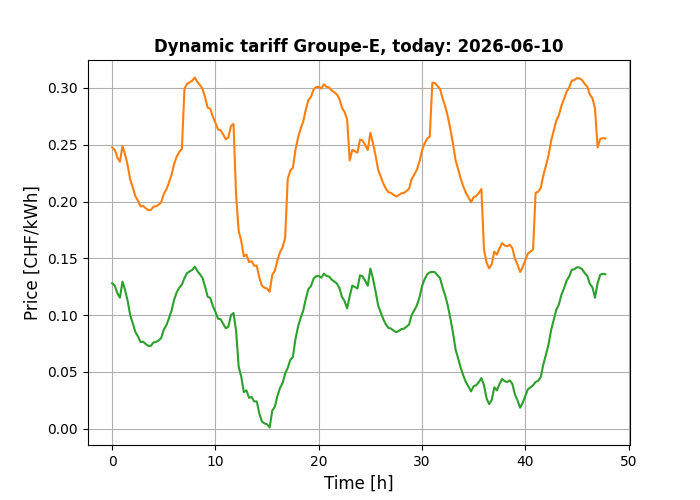
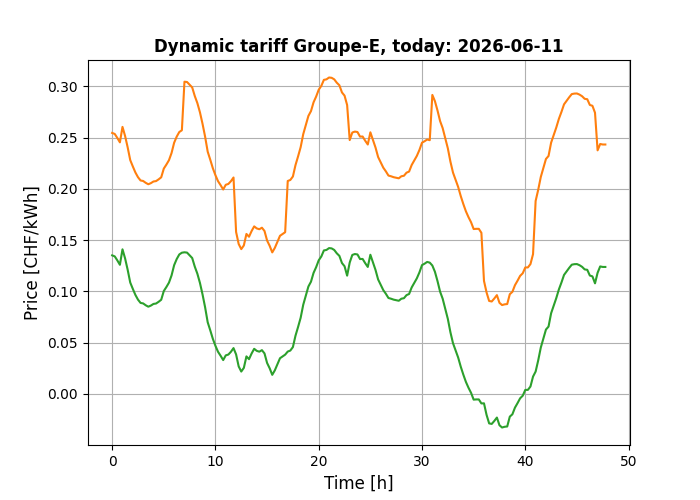
the double tariff is not available anymore in the API, replaced with the mean value for a kind of comparison

diff --git a/streamlit_dynamic_tarif_simulator.py b/streamlit_dynamic_tarif_simulator.py
@@ -3,6 +3,7 @@
 import streamlit as st
 import pandas as pd
 import plotly.express as px
+import plotly.graph_objects as go
 import matplotlib.pyplot as plt
 import datetime
 import random as rnd
@@ -56,7 +57,7 @@ with st.sidebar:
     st.markdown("---")
     st.write("🔋 Storage used for simulation")
     battery_size_kwh = st.slider("Battery capacity (kWh): ", min_value=1.0, max_value=20.0, value=10.0, step=1.0)
-    battery_charge_power_kw = st.slider("Battery max charge power (kW): ", min_value=1.0, max_value=20.0, value=10.0, step=1.0)
+    battery_charge_power_kw = st.slider("Battery max charge power (kW): ", min_value=1.0, max_value=20.0, value=5.0, step=1.0)
     st.write("C/2 would be a reasonable charge/discharge limit, note it is applied all day")
     soc_init = st.slider("Battery initial SOC (%): ", min_value=20.0, max_value=100.0, value=20.0, step=1.0)
 
@@ -71,7 +72,7 @@ with st.sidebar:
 
 st.write(""" Visualizing daily electricity prices and planning **storage** with **solar** power production and **consumption** usage
     - **Why?** Dynamic price will be a hot subject in the future with increasing solar production capacity distributed in the grid. There will be so much production in the afternoon that the way we consume must be adapted. Live with the sun... 
-    - **POC?** An proof of concept of what could be done with Studer next3 hybrid inverter (best and most flexible inverters in the world to control!). The idea is to quantify the possible gain of an control done with the dynamic price of the Swiss DSO Groupe-E (called Vario). This is available with an API and published everyday at 18h for the next day.
+    - **POC?** An proof of concept of what could be done with Studer next3 hybrid inverter (best and most flexible inverters in the world to control!). The idea is to quantify the possible gain of an control done with the dynamic price of the Swiss DSO Groupe-E (called Vario). This is available with an API and published everyday at 18h for the next day. Note that with the new version of the API v2, the standard tariff is not included anymore, but I replaced it with the mean price of the vario for approximation of a standard tariff.
     - **Info?** if you want to know more about [Vario](https://www.groupe-e.ch/fr/energie/electricite/clients-prives/vario)""")
 
 st.markdown("---")
@@ -96,9 +97,9 @@ now_string_timestamp = now.strftime("%Y-%m-%d %H:%M:%S")
 #API to the electricity price:
 df_price_varioplus = get_groupe_e_consumption_price_v2(now, number_of_days_in_past, next_day_wanted)
 
-#adaptation: with the new API the double tarif is not included anymore, I added it in the dataframe with NaN
+#adaptation for v2: with the new API the double tariff is not included anymore, I added it in the dataframe with NaN
 #let's replace it with the mean price of the vario for approximation, that is not bad:
-df_price_varioplus["Double Tarif"] = df_price_varioplus["Varioplus"].mean()
+df_price_varioplus["Double Tariff"] = df_price_varioplus["Varioplus"].mean()
 
 print("Timestamp: " + now_string_timestamp)
 #df_price_varioplus.head()
@@ -121,11 +122,47 @@ df_price_varioplus["DischargeCommand"] = (df_price_varioplus["Discharge"]  <= df
 
 
 #And plot it:
-fig_levels = px.line(df_price_varioplus, 
-                            x=df_price_varioplus.index, 
-                            y=["Varioplus", "Charge", "Discharge", "Double Tarif"], 
-                            title="⚡ Electricity price with 💸 Prices Threshold", 
-                            labels={"value": "Energy price (CHF/kWh)", "variable": "Legend"})
+fig_levels = go.Figure()
+fig_levels.add_trace(
+    go.Scatter(
+        x=df_price_varioplus.index,
+        y=df_price_varioplus["Varioplus"],
+        mode="lines",
+        name="Varioplus",
+    )
+)
+fig_levels.add_trace(
+    go.Scatter(
+        x=df_price_varioplus.index,
+        y=df_price_varioplus["Charge"],
+        mode="lines",
+        name="Charge threshold",
+        line=dict(dash="dash"),
+    )
+)
+fig_levels.add_trace(
+    go.Scatter(
+        x=df_price_varioplus.index,
+        y=df_price_varioplus["Discharge"],
+        mode="lines",
+        name="Discharge threshold",
+        line=dict(dash="dash"),
+    )
+)
+fig_levels.add_trace(
+    go.Scatter(
+        x=df_price_varioplus.index,
+        y=df_price_varioplus["Double Tariff"],
+        mode="lines",
+        name="Standard Tariff",
+    )
+)
+fig_levels.update_layout(
+    title="⚡ Electricity price with 💸 Prices Threshold",
+    xaxis_title="",
+    yaxis_title="Energy price (CHF/kWh)",
+    legend_title_text="",
+)
 st.plotly_chart(fig_levels)
 
 
@@ -207,7 +244,7 @@ df_price_varioplus["PricePaidVario"] = (df_price_varioplus["Consumption"] * df_p
 cost_normal_profile_with_vario = df_price_varioplus["PricePaidVario"].sum()
 print("Price paid:", cost_normal_profile_with_vario)
 
-df_price_varioplus["PricePaidDT"] = (df_price_varioplus["Consumption"] * df_price_varioplus["Double Tarif"]/4.0)   #note, result is true/false, and .astype(int) convert to 1/0
+df_price_varioplus["PricePaidDT"] = (df_price_varioplus["Consumption"] * df_price_varioplus["Double Tariff"]/4.0)   #note, result is true/false, and .astype(int) convert to 1/0
 cost_normal_profile_with_dt = df_price_varioplus["PricePaidDT"].sum()
 print("Price paid DT:", cost_normal_profile_with_dt)
 
@@ -323,7 +360,7 @@ st.plotly_chart(fig_soc_profile)
 st.write(" **Some results**")
 st.markdown(f""" Reference
     - The consumption of electricity for this period is {consumption_kWh:.2f} kWh 🔌
-    - The cost of electricity is  {cost_normal_profile_with_dt:.2f} CHF with Double tariff without storage
+    - The cost of electricity is  {cost_normal_profile_with_dt:.2f} CHF with standard tariff without storage
     - The cost of electricity is  {cost_normal_profile_with_vario:.2f} CHF with Vario without storage, mean price is {cost_normal_profile_with_vario/consumption_kWh:.3f} CHF/kWh""")
 
 st.markdown(f""" 🔋 With storage controled in price signal:
@@ -375,7 +412,7 @@ df_price_varioplus["Grid pos with solar only"] = grid_power_pos_with_solar_array
 df_price_varioplus["PricePaidVarioWithSolarOnly"] = (df_price_varioplus["Grid pos with solar only"] * df_price_varioplus["Varioplus"]/4.0)   #note, result is true/false, and .astype(int) convert to 1/0
 cost_normal_profile_with_vario_with_solar_only = df_price_varioplus["PricePaidVarioWithSolarOnly"].sum()
 print("Price paid with solar only:", cost_normal_profile_with_vario_with_solar_only)
-df_price_varioplus["PricePaidDTSolarOnly"] = (df_price_varioplus["Grid pos with solar only"] * df_price_varioplus["Double Tarif"]/4.0)   #note, result is true/false, and .astype(int) convert to 1/0
+df_price_varioplus["PricePaidDTSolarOnly"] = (df_price_varioplus["Grid pos with solar only"] * df_price_varioplus["Double Tariff"]/4.0)   #note, result is true/false, and .astype(int) convert to 1/0
 cost_normal_profile_with_dt_with_solar_only = df_price_varioplus["PricePaidDTSolarOnly"].sum()
 print("Price paid DT with solar only:", cost_normal_profile_with_dt_with_solar_only)
 
@@ -407,7 +444,7 @@ st.plotly_chart(fig_simstorage_profile)
 st.write(f""" Results with solar only:
     - The consumption of electricity  on the grid for this period is {consumption_kWh_with_solar_only:.2f} kWh with solar only
     - The cost of electricity bought is  {cost_normal_profile_with_vario_with_solar_only:.2f} CHF with Vario with solar only, mean price is {cost_normal_profile_with_vario_with_storage/consumption_kWh_with_storage:.3f} CHF/kWh
-    - The cost of electricity bought is  {cost_normal_profile_with_dt_with_solar_only:.2f} CHF with Double Tariff with solar only""")
+    - The cost of electricity bought is  {cost_normal_profile_with_dt_with_solar_only:.2f} CHF with Standard Tariff with solar only""")
 
 
 st.write(" \n ")
@@ -437,7 +474,7 @@ df_price_varioplus["SOC solar"] = soc_array
 df_price_varioplus["PricePaidVarioWithSolarStorage"] = (df_price_varioplus["Grid pos with solar and storage"] * df_price_varioplus["Varioplus"]/4.0)   #note, result is true/false, and .astype(int) convert to 1/0
 cost_normal_profile_with_vario_with_solar_and_storage = df_price_varioplus["PricePaidVarioWithSolarStorage"].sum()
 print("Price paid with solar and storage:", cost_normal_profile_with_vario_with_solar_and_storage)
-df_price_varioplus["PricePaidDTSolarStorage"] = (df_price_varioplus["Grid pos with solar and storage"] * df_price_varioplus["Double Tarif"]/4.0)   #note, result is true/false, and .astype(int) convert to 1/0
+df_price_varioplus["PricePaidDTSolarStorage"] = (df_price_varioplus["Grid pos with solar and storage"] * df_price_varioplus["Double Tariff"]/4.0)   #note, result is true/false, and .astype(int) convert to 1/0
 cost_normal_profile_with_dt_with_solar_and_storage = df_price_varioplus["PricePaidDTSolarStorage"].sum()
 print("Price paid DT with solar only:", cost_normal_profile_with_dt_with_solar_only)
 
@@ -450,7 +487,7 @@ consumption_kWh_with_solar_and_storage = df_price_varioplus["Grid pos with solar
 st.write(f""" Results with solar and storage:
     - The consumption of electricity on the grid for this period is {consumption_kWh_with_solar_and_storage:.2f} kWh
     - The cost of electricity is  {cost_normal_profile_with_vario_with_solar_and_storage:.2f} CHF with Vario solar and storage, mean price is {cost_normal_profile_with_vario_with_solar_and_storage/consumption_kWh_with_solar_and_storage:.3f} CHF/kWh
-    - The cost of electricity is  {cost_normal_profile_with_dt_with_solar_and_storage:.2f} CHF with Double tariff solar and storage""")
+    - The cost of electricity is  {cost_normal_profile_with_dt_with_solar_and_storage:.2f} CHF with standard tariff solar and storage""")
 
 
 
@@ -510,7 +547,7 @@ st.write(""" Make your own ideas by playing with this simulator...  here are min
          
     - If you have no solar, jump to the vario prices and start to act like if you had some: put your loads during the day. That was the case with the consumption profile used and we see that it's cheaper. Let's consume the cheap solar of your neighbors!
     - Addition of a storage without solar can save 200 to 300CHF per year with Vario 
-    - The double tariff is the best for houses with solar installed, because the low price is mainly during the PV production and during that time you have your own energy to cover the loads
+    - The standard tariff is the best for houses with solar installed, because the low price is mainly during the PV production and during that time you have your own energy to cover the loads
     - With houses with solar and storage, the difference between one and the other tariff is not big but an smart control has not been tested yet... that can make a difference during the winter when the battery is there but there is not much solar.
     - This is with Vario of Groupe-E that is based on the grid loading and that could be very different with an dynamic tarif based on market price, don't make a generalization.
          

diff --git a/groupe_e_access_functions.py b/groupe_e_access_functions.py
@@ -40,6 +40,7 @@ import pandas as pd
 import numpy as np
 import matplotlib.pyplot as plt
 import plotly.express as px
+import plotly.graph_objects as go
 
 import requests
 
@@ -136,7 +137,7 @@ def get_groupe_e_consumption_price(dt, number_of_days_in_past=0, next_day_wanted
 
     #plotly use pandas dataframes to handle data, so let's recreate one that is a proper time serie:
     time_quarters = np.arange(0,len(price_varioplus)/4,0.25) #that is the time in hours
-    df_price_varioplus = pd.DataFrame({"Varioplus":price_varioplus, "Double Tarif": price_dt_plus,"Time in hours":time_quarters}, index=timestamps_converted)
+    df_price_varioplus = pd.DataFrame({"Varioplus":price_varioplus, "Double Tariff": price_dt_plus,"Time in hours":time_quarters}, index=timestamps_converted)
 
 
     return df_price_varioplus 
@@ -220,7 +221,7 @@ def get_groupe_e_consumption_price_v2(dt, number_of_days_in_past=0, next_day_wan
         {
             "Grid": price_grid,
             "Varioplus": price_varioplus,
-            "Double Tarif": price_dt,
+            "Double Tariff": price_dt,
             "Time in hours": time_quarters,
         },
         index=timestamps_converted,
@@ -243,7 +244,7 @@ def plot_and_store_prices_picture(df_price_varioplus):
                                 figsize=(FIGSIZE_WIDTH, FIGSIZE_HEIGHT))
     
 
-    axes_prices.plot(df_price_varioplus['Time in hours'].values, df_price_varioplus[["Double Tarif", "Varioplus", "Grid"]].values) #,color='b'
+    axes_prices.plot(df_price_varioplus['Time in hours'].values, df_price_varioplus[["Double Tariff", "Varioplus", "Grid"]].values) #,color='b'
     axes_prices.set_ylabel('Price [CHF/kWh]', fontsize=12)
     axes_prices.set_xlabel('Time [h]', fontsize=12)
     axes_prices.set_title('Dynamic tariff Groupe-E, today: '+str(now)[0:10], fontsize=12, weight="bold")
@@ -261,16 +262,30 @@ def plot_and_store_prices_picture_plotly(df_price_varioplus):
     Here 2 plots in plotly format are realised and saved in an html file
     One is returned for display in tests
     '''
-    #now = datetime.datetime.now()
-    fig_prices = px.line(df_price_varioplus,  y=["Double Tarif", "Varioplus"],
-                         labels={"index" : "", 
-                                 "value" : "Electricity price [CHF/kWh]",
-                                 "Double Tarif": "Standard double tarif [CHF/kWh]",
-                                 "Varioplus" : "Dynamic price [CHF/kWh]"
-                                 },
-                         title="Groupe-E variable electricity price",
-                         template="seaborn"
-                        )  
+    fig_prices = go.Figure()
+    fig_prices.add_trace(
+        go.Scatter(
+            x=df_price_varioplus.index,
+            y=df_price_varioplus["Double Tariff"],
+            mode="lines",
+            name="Standard tariff [CHF/kWh]",
+        )
+    )
+    fig_prices.add_trace(
+        go.Scatter(
+            x=df_price_varioplus.index,
+            y=df_price_varioplus["Varioplus"],
+            mode="lines",
+            name="Dynamic price [CHF/kWh]",
+        )
+    )
+    fig_prices.update_layout(
+        title="Groupe-E variable electricity price",
+        xaxis_title="",
+        yaxis_title="Electricity price [CHF/kWh]",
+        template="seaborn",
+        legend_title_text="",
+    )
 
 
     #test with histogram
@@ -305,7 +320,7 @@ def main():
     print(df_price_varioplus.columns)
 
     price_varioplus = df_price_varioplus['Varioplus'].values
-    price_dt_plus = df_price_varioplus['Double Tarif'].values
+    price_dt_plus = df_price_varioplus['Double Tariff'].values
     time_resp= df_price_varioplus['Time in hours'].values
 
     print(time_resp[0:5])